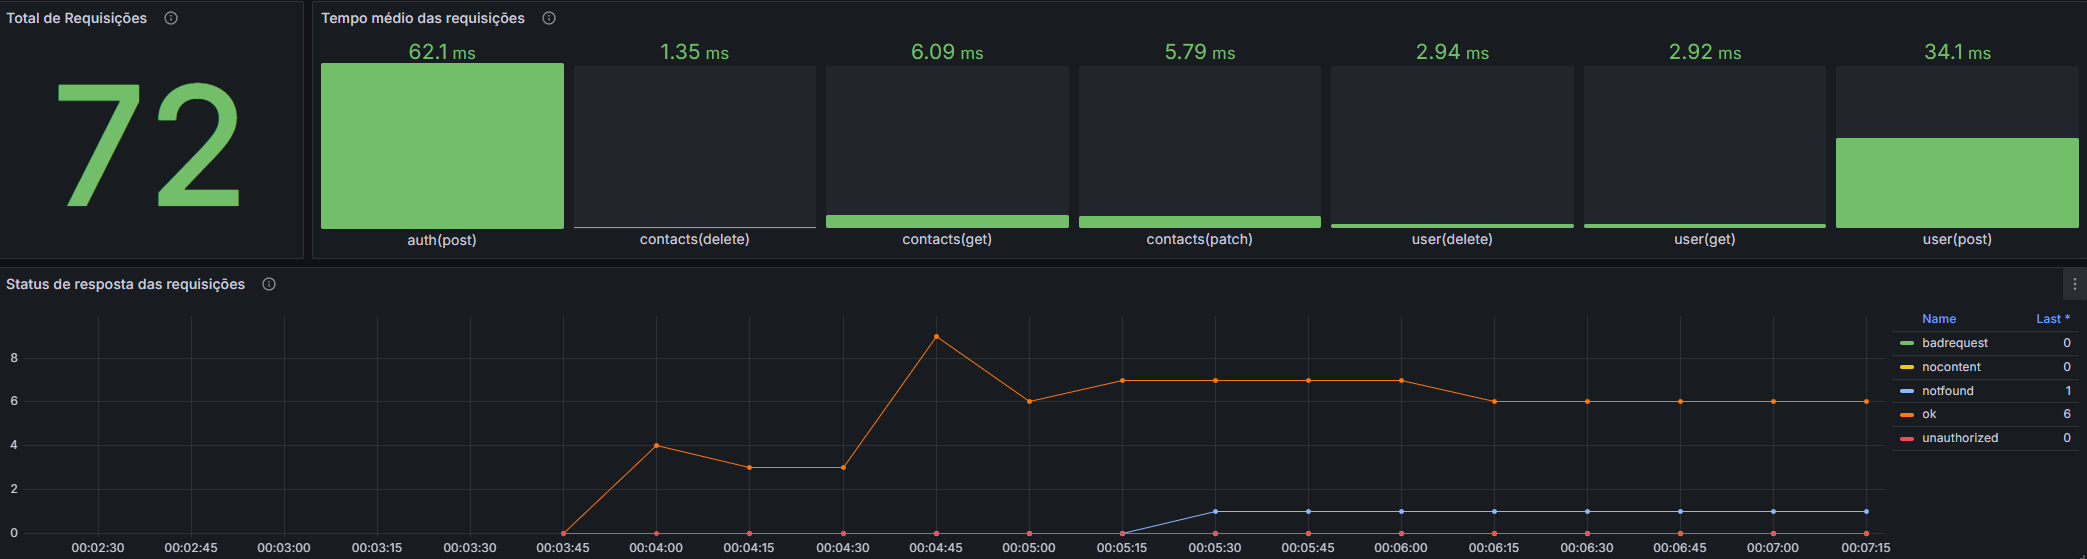
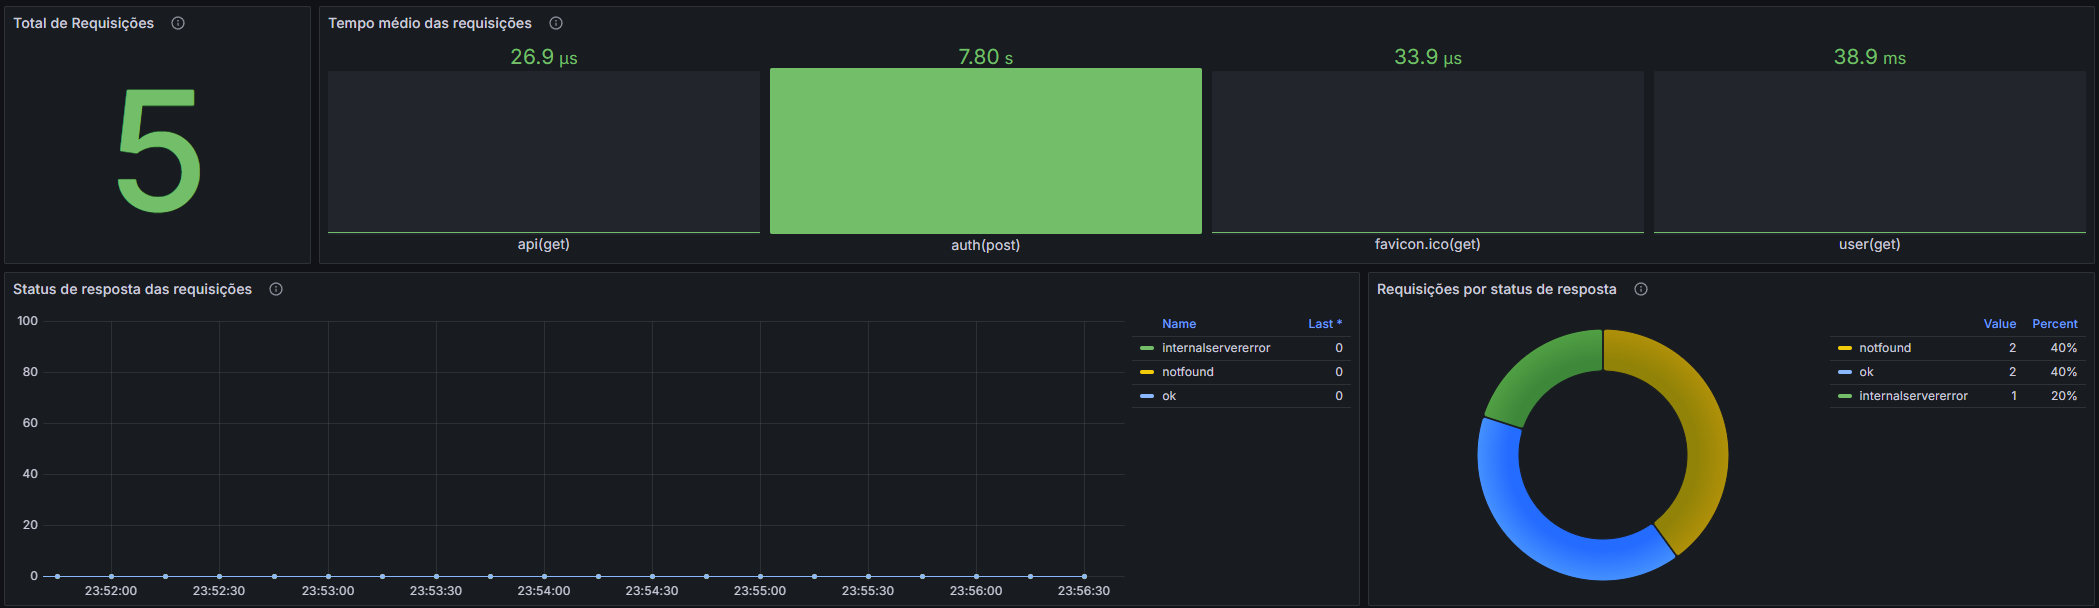
Atualização da documentação

diff --git a/docker/monitoring/README.md b/docker/monitoring/README.md
@@ -141,11 +141,20 @@ Média de tempo(em segundos) que as requisições estão levando na API
 | **Threshold** | base = verde; 80 = vermelho |
 
 ### Status de resposta das requisições
-Resumo dos status de resposta da API para as requisições durante o período selecionado
+Resumo dos status de resposta da API para as requisições durante o período selecionado. Gráfico de tendência: mostrando a tendência(volume de requisições em um determinado número de tempo) de requisições recebidas no período
 
 |  |  |
 | -- | -- |
 | **Query(promql)** | sum by(request_status) (round(increase(http_requests_info_total_count{job=~"$job"}[$__range]))) |
+| **Value mapping** | - |
+| **Threshold** | - |
+
+### Requisições por status de resposta
+Contagem de requisições por status de resposta(http status)
+
+|  |  |
+| -- | -- |
+| **Query(promql)** | sum(http_requests_info_total_count{job=~"$job", path=~"$request_path"}) by (request_status) |
 | **Value mapping** | - |
 | **Threshold** | - |
 

diff --git a/README.md b/README.md
@@ -72,6 +72,12 @@ export TECH1_API_SEC_IV="iqs1k4XU6wADBBOP3cpg5A=="
 
 
 
-## Documentação do Prometheus
+## Documentações e referências
 
-https://github.com/prometheus-net/prometheus-net
+### Documentações Internas
+- [Dashboard](./docker/monitoring/README.md)
+
+### Referências Externas
+- [Prometheus](https://prometheus.io/docs/prometheus/)
+- [Prometheus - Github](https://github.com/prometheus-net/prometheus-net)
+- [Grafana](https://grafana.com/docs/grafana/latest/)
